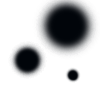
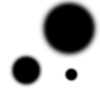
changed bg color

Changed region(s): [[0.39, 0.0, 0.99, 0.57], [0.09, 0.42, 0.45, 0.87], [0.63, 0.66, 0.81, 0.84]]

diff --git a/css/stars.css b/css/stars.css
@@ -18,7 +18,7 @@
 .stars {
   background-repeat: repeat;
   background-position: center;
-  background-color: #050608;
+  background-color: black;
   background-image: url(../assets/images/stars.png);
   z-index:-2;
 }
